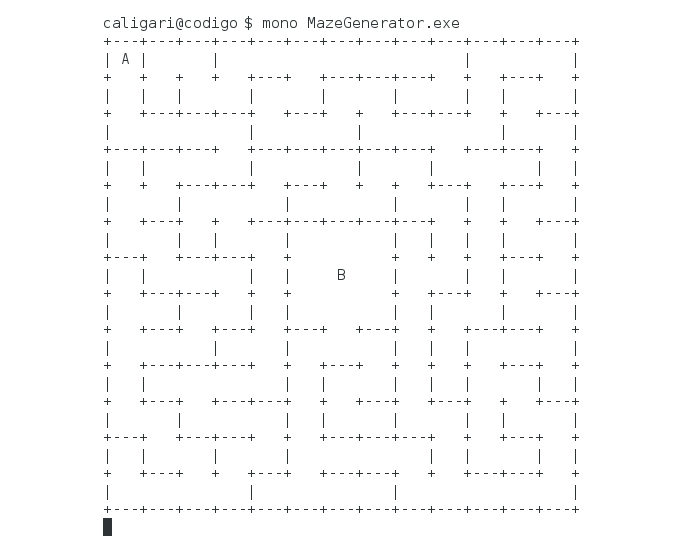
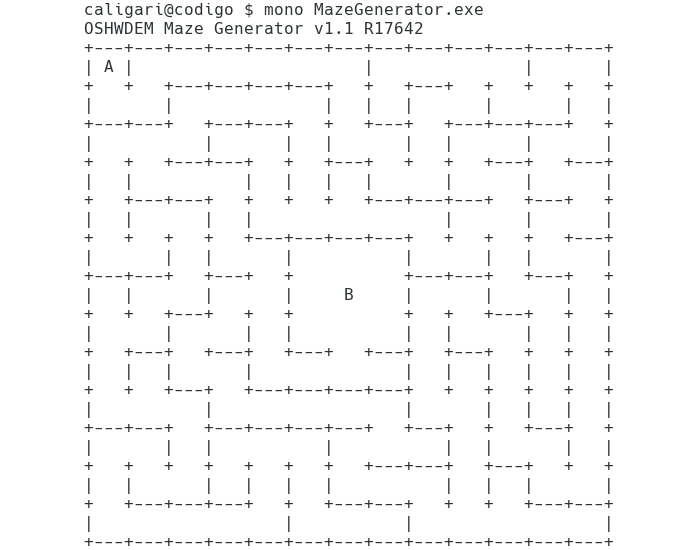
Program title and version.

diff --git a/MazeGenerator/Properties/AssemblyInfo.cs b/MazeGenerator/Properties/AssemblyInfo.cs
@@ -14,7 +14,7 @@ using System.Runtime.CompilerServices;
 // The assembly version has the format "{Major}.{Minor}.{Build}.{Revision}".
 // The form "{Major}.{Minor}.*" will automatically update the build and revision,
 // and "{Major}.{Minor}.{Build}.*" will update just the revision.
-[assembly: AssemblyVersion ("1.0.*")]
+[assembly: AssemblyVersion ("1.1.*")]
 // The following attributes are used to specify the signing key for the assembly, 
 // if desired. See the Mono documentation for more information about signing.
 //[assembly: AssemblyDelaySign(false)]

diff --git a/MazeGenerator/Program.cs b/MazeGenerator/Program.cs
@@ -45,6 +45,9 @@ namespace Treboada.Net.Ia
 			// generate from top-left corner
 			generator.Generate (0, 0);
 
+			// show the version
+			Console.WriteLine ("OSHWDEM Maze Generator v{0}.{1} R{2}", Version.Major, Version.Minor, Version.Revision);
+
 			// output to the console
 			Console.Write (maze);
 
@@ -93,6 +96,11 @@ namespace Treboada.Net.Ia
 			generator.SetVisited (7, 7, true);
 
 			return generator;
+		}
+
+
+		public static Version Version { 
+			get { return System.Reflection.Assembly.GetEntryAssembly().GetName().Version; } 
 		}
 	}
 }
